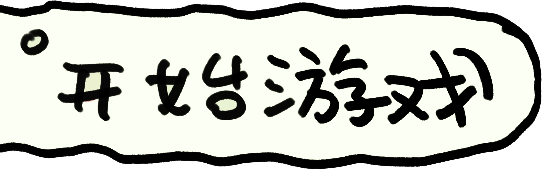
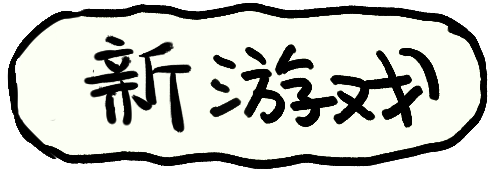
修

diff --git a/Assets/Scripts/GamePlay/Opening/OpeningManager.cs b/Assets/Scripts/GamePlay/Opening/OpeningManager.cs
@@ -6,67 +6,47 @@ using UnityEngine.Video;
 
 public class OpeningManager : MonoBehaviour
 {
-	public List<VideoClip> videoClips;
-	public List<string> lines;
-	public TMP_Text textUI;
+    public List<VideoClip> videoClips;
+    public List<string> lines;
+    public TMP_Text textUI;
 
+    public VideoPlayer videoPlayer;
 
-	public VideoPlayer videoPlayer;
+    private int currentIndex = 0;
 
-	// 当前播放索引
-	private int currentIndex = 0;
-	// 标记：视频是否已经播放完成，等待点击
-	private bool waitForClick = false;
+    void Start()
+    {
+        TransitionEffect.Instance.FadeIn();
 
-	void Start()
-	{
-		TransitionEffect.Instance.FadeIn();
-		// 绑定播放结束事件
-		videoPlayer.loopPointReached += OnVideoFinish;
+        videoPlayer.loopPointReached += OnVideoFinish;
 
-		if (videoClips.Count > 0)
-		{
-			PlayVideo(currentIndex);
-		}
-	}
+        if (videoClips.Count > 0)
+        {
+            PlayVideo(currentIndex);
+        }
+    }
 
-	// 播放指定索引视频
-	void PlayVideo(int index)
-	{
-		waitForClick = false;
-		videoPlayer.clip = videoClips[index];
-		videoPlayer.Play();
-		textUI.text = lines[index];
-	}
+    void PlayVideo(int index)
+    {
+        videoPlayer.clip = videoClips[index];
+        videoPlayer.Play();
 
-	// 视频播放完毕回调
-	void OnVideoFinish(VideoPlayer vp)
-	{
-		waitForClick = true;
-	}
+        if (index < lines.Count)
+            textUI.text = lines[index];
+    }
 
-	void Update()
-	{
-		// 只有视频播完等待点击时才响应鼠标左键/屏幕点击
-		if (waitForClick && Input.GetMouseButtonDown(0))
-		{
-			NextVideo();
-		}
-	}
+    void OnVideoFinish(VideoPlayer vp)
+    {
+        currentIndex++;
 
-	void NextVideo()
-	{
-		currentIndex++;
-
-		// 判断是否还有下一个视频
-		if (currentIndex < videoClips.Count)
-		{
-			PlayVideo(currentIndex);
-		}
-		else
-		{
-			Debug.Log("所有视频播放完毕");
-			GameManager.Instance.LoadScene(GameManager.Instance.curLevelIndex + 1);
-		}
-	}
+        if (currentIndex < videoClips.Count)
+        {
+            PlayVideo(currentIndex);
+        }
+        else
+        {
+            Debug.Log("所有视频播放完毕");
+            GameManager.Instance.LoadScene(GameManager.Instance.curLevelIndex + 1);
+        }
+    }
 }